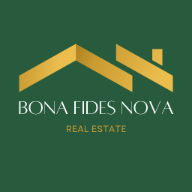
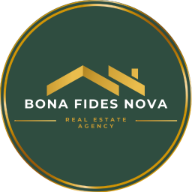
.

diff --git a/app/kontakt/page.tsx b/app/kontakt/page.tsx
@@ -148,8 +148,7 @@ export default function KontaktPage() {
                   <div className="flex-1">
                     <h3 className="font-semibold mb-2">Adresa kancelarije</h3>
                     <div className="text-muted-foreground space-y-0.5">
-                      <p className="font-medium">Ul. Karađorđeva br. 123</p>
-                      <p>(u pasažu)</p>
+                      <p className="font-medium">Ul. Čika Ljubina br. 15</p>
                       <p>14000 Valjevo, Srbija</p>
                     </div>
                   </div>
@@ -300,7 +299,7 @@ export default function KontaktPage() {
             </h2>
             <div className="w-full overflow-hidden rounded-lg">
               <iframe
-                src="https://www.google.com/maps/embed?pb=!1m18!1m12!1m3!1d4040.220749582341!2d19.888601853589403!3d44.271545676902534!2m3!1f0!2f0!3f0!3m2!1i1024!2i768!4f13.1!3m3!1m2!1s0x4759eda13cbeb6cf%3A0x9ab875a9cdf55409!2z0JrQsNGA0LDRktC-0YDRktC10LLQsCAxMjMsINCS0LDRmdC10LLQviAxNDAwMA!5e0!3m2!1ssr!2srs!4v1767032055206!5m2!1ssr!2srs"
+                src="https://www.google.com/maps?q=%C4%8Cika+Ljubina+15,+14000+Valjevo,+Srbija&output=embed"
                 width="100%"
                 height="450"
                 style={{ border: 0 }}

diff --git a/app/o-nama/page.tsx b/app/o-nama/page.tsx
@@ -96,9 +96,7 @@ export default function AboutPage() {
                   <div>
                     <h3 className="text-xl font-semibold mb-2">Lokacija</h3>
                     <p className="text-muted-foreground">
-                      Ul. Karađorđeva br. 123
-                      <br />
-                      (u pasažu)
+                      Ul. Čika Ljubina br. 15
                       <br />
                       Valjevo, Srbija
                     </p>
@@ -148,7 +146,7 @@ export default function AboutPage() {
               <h2 className="text-3xl font-bold mb-6">Naša Lokacija</h2>
               <div className="w-full overflow-hidden rounded-lg">
                 <iframe
-                  src="https://www.google.com/maps/embed?pb=!1m18!1m12!1m3!1d4040.220749582341!2d19.888601853589403!3d44.271545676902534!2m3!1f0!2f0!3f0!3m2!1i1024!2i768!4f13.1!3m3!1m2!1s0x4759eda13cbeb6cf%3A0x9ab875a9cdf55409!2z0JrQsNGA0LDRktC-0YDRktC10LLQsCAxMjMsINCS0LDRmdC10LLQviAxNDAwMA!5e0!3m2!1ssr!2srs!4v1767032055206!5m2!1ssr!2srs"
+                  src="https://www.google.com/maps?q=%C4%8Cika+Ljubina+15,+14000+Valjevo,+Srbija&output=embed"
                   width="100%"
                   height="450"
                   style={{ border: 0 }}

diff --git a/app/nekretnine/[slug]/page.tsx b/app/nekretnine/[slug]/page.tsx
@@ -247,9 +247,7 @@ export default async function PropertyPage({ params }: { params: { slug: string 
               <strong>Adresa kancelarije:</strong>
             </p>
             <p className="text-sm">
-              Ul. Karađorđeva br. 123
-              <br />
-              (u pasažu)
+              Ul. Čika Ljubina br. 15
               <br />
               Valjevo, Srbija
             </p>

diff --git a/components/Footer.tsx b/components/Footer.tsx
@@ -33,7 +33,7 @@ export default function Footer() {
               </Link>
               <div className="flex items-center gap-2">
                 <MapPin className="w-5 h-5" />
-                <span>Valjevo, Srbija</span>
+                <span>Ul. Čika Ljubina br. 15, Valjevo, Srbija</span>
               </div>
             </div>
           </div>

diff --git a/components/Header.tsx b/components/Header.tsx
@@ -213,7 +213,7 @@ export default function Header() {
             alt="Bona Fides Nekretnine Nova"
             width={80}
             height={80}
-            className=""
+            className="rounded-full"
           />
         </Link>
         <DesktopNav categories={categories} scrolled={scrolled} />

diff --git a/README.md b/README.md
@@ -130,7 +130,7 @@ Možete koristiti bilo koju platformu koja podržava Next.js:
 - **Email:** snezanaa50@gmail.com
 - **Telefon:** 014/293-923, 014/293-920
 - **Mob/Viber/WhatsApp:** +381 63 822 6026
-- **Adresa:** Ul. Karađorđeva br. 123 (u pasažu), Valjevo
+- **Adresa:** Ul. Čika Ljubina br. 15, Valjevo
 - **Registarski broj:** 952
 
 ## License
